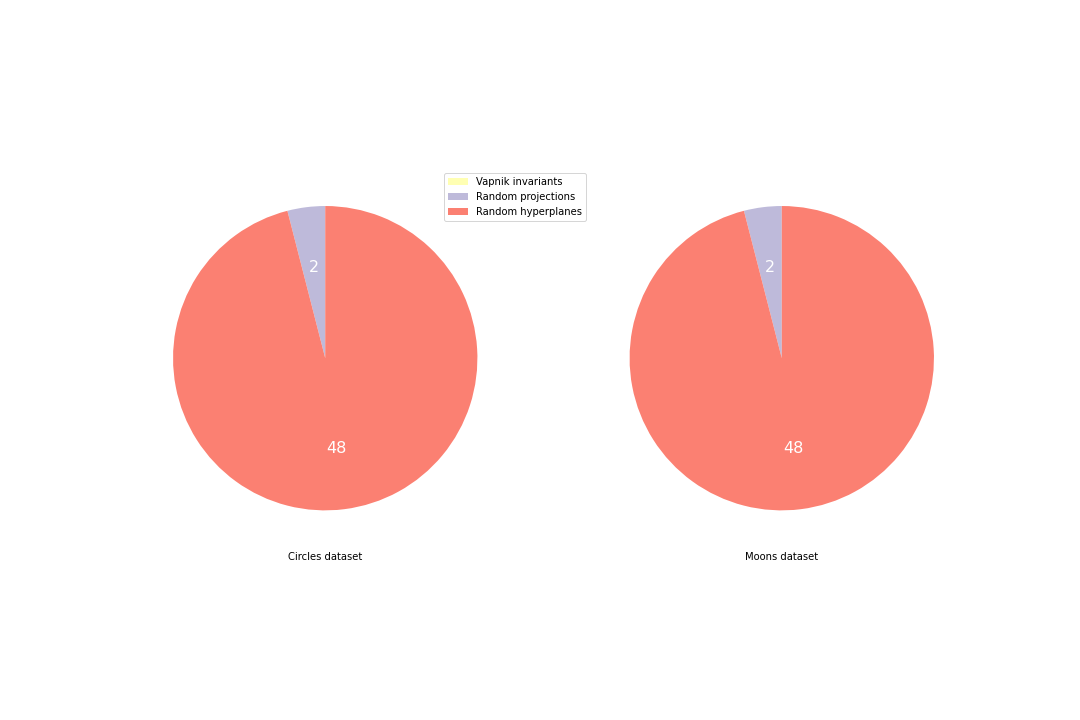
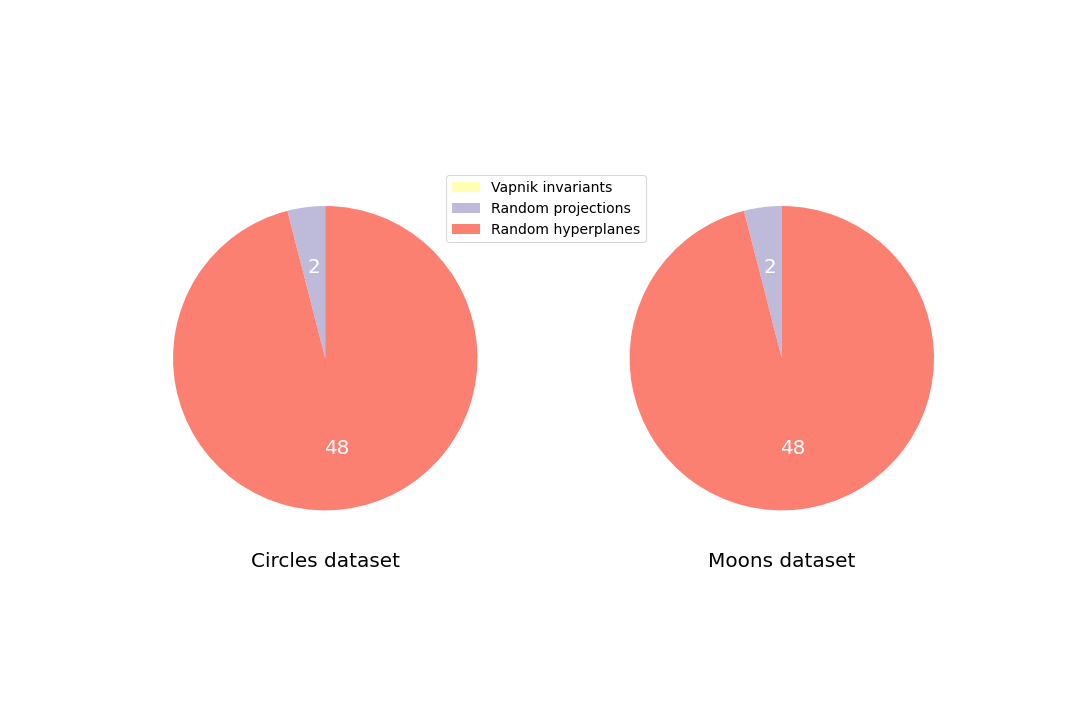
Split some images and tables and fix pie chart image

diff --git a/thesis/Chapters/Chapter4.tex b/thesis/Chapters/Chapter4.tex
@@ -244,8 +244,9 @@ model, we have restricted ourselves to performing the grid search on the followi
 
 \subsection{Results}
 
-Let us now analyze the results that we have obtained from the experimentation. Table \ref{tab:results_accuracies_errors}
-contains the mean accuracies and standard deviations for each dataset considering the different invariant types
+Let us now analyze the results that we have obtained from the experimentation. Tables
+\ref{tab:results_accuracies_errors_100} and \ref{tab:results_accuracies_errors_10}
+contain the mean accuracies and standard deviations for each dataset considering the different invariant types
 and training subsample sizes. We have only reported the mean accuracies achieved when using a subsample
 of 100\% and 10\% of the training partitions, as they represent two extremes of the learning problem: one in which
 there is a lot of available training data, and one where this data is scarce.
@@ -281,81 +282,43 @@ to keep different proportions of it, in practice it seems that preserving this k
 might not be that useful as the models may be prone to overfitting, as we saw in the experimentation with the toy
 problems.
 
+
 \begin{table}[h]
 \centering
 \resizebox{\textwidth}{!}{%
-\begin{tabular}{c|cc|cc|cc|cc|}
-\cline{2-9}
- &
-  \multicolumn{2}{c|}{\textbf{Baseline model}} &
-  \multicolumn{2}{c|}{\textbf{Vapnik invariants}} &
-  \multicolumn{2}{c|}{\textbf{Random projections}} &
-  \multicolumn{2}{c|}{\textbf{Random hyperplanes}} \\ \hline
-\multicolumn{1}{|c|}{\textbf{Dataset}} &
-  \multicolumn{1}{c|}{100\%} &
-  10\% &
-  \multicolumn{1}{c|}{100\%} &
-  10\% &
-  \multicolumn{1}{c|}{100\%} &
-  10\% &
-  \multicolumn{1}{c|}{100\%} &
-  10\% \\ \hline
-\multicolumn{1}{|c|}{Balance Scale} &
-  \multicolumn{1}{c|}{$91.47 \pm 0.38\%$} &
-  $88.80 \pm 1.73\%$ &
-  \multicolumn{1}{c|}{$91.47 \pm 0.38\%$} &
-  $87.73 \pm 2.10\%$ &
-  \multicolumn{1}{c|}{$91.73 \pm 0.38\%$} &
-  $83.73 \pm 7.17\%$ &
-  \multicolumn{1}{c|}{$90.13 \pm 1.51\%$} &
-  $76.00 \pm 12.77\%$ \\ \hline
-\multicolumn{1}{|c|}{Ecoli} &
-  \multicolumn{1}{c|}{$85.29 \pm 2.08\%$} &
-  $71.57 \pm 1.39\%$ &
-  \multicolumn{1}{c|}{$85.29 \pm 1.20\%$} &
-  $72.55 \pm 4.22\%$ &
-  \multicolumn{1}{c|}{$84.15 \pm 2.05\%$} &
-  $67.32 \pm 4.03\%$ &
-  \multicolumn{1}{c|}{$75.98 \pm 6.28\%$} &
-  $63.89 \pm 9.61\%$ \\ \hline
-\multicolumn{1}{|c|}{Glass} &
-  \multicolumn{1}{c|}{$72.87 \pm 7.91\%$} &
-  $56.59 \pm 4.78\%$ &
-  \multicolumn{1}{c|}{$72.87 \pm 7.91\%$} &
-  $45.74 \pm 6.67\%$ &
-  \multicolumn{1}{c|}{$72.09 \pm 7.44\%$} &
-  $52.45 \pm 7.03\%$ &
-  \multicolumn{1}{c|}{$71.06 \pm 7.60\%$} &
-  $45.48 \pm 9.50\%$ \\ \hline
-\multicolumn{1}{|c|}{Iris} &
-  \multicolumn{1}{c|}{$96.67 \pm 0.00\%$} &
-  $93.33 \pm 2.72\%$ &
-  \multicolumn{1}{c|}{$95.56 \pm 1.57\%$} &
-  $90.00 \pm 4.71\%$ &
-  \multicolumn{1}{c|}{$95.19 \pm 1.66\%$} &
-  $77.78 \pm 22.93\%$ &
-  \multicolumn{1}{c|}{$88.52 \pm 11.56\%$} &
-  $84.81 \pm 9.04\%$ \\ \hline
-\multicolumn{1}{|c|}{Yeast} &
-  \multicolumn{1}{c|}{$53.76 \pm 1.04\%$} &
-  $47.92 \pm 2.08\%$ &
-  \multicolumn{1}{c|}{$53.87 \pm 1.20\%$} &
-  $47.92 \pm 2.14\%$ &
-  \multicolumn{1}{c|}{$52.53 \pm 5.44\%$} &
-  $45.68 \pm 4.60\%$ &
-  \multicolumn{1}{c|}{$50.39 \pm 5.33\%$} &
-  $37.82 \pm 7.92\%$ \\ \hline
+\begin{tabular}{lcccc}
+\textbf{Dataset} & \textbf{Baseline model} & \textbf{Vapnik invariants} & \textbf{Random projections} & \textbf{Random hyperplanes} \\ \hline
+Balance Scale & $91.47 \pm 0.38\%$ & $91.47 \pm 0.38\%$ & $91.73 \pm 0.38\%$ & $90.13 \pm 1.51\%$  \\
+Ecoli         & $85.29 \pm 2.08\%$ & $85.29 \pm 1.20\%$ & $84.15 \pm 2.05\%$ & $75.98 \pm 6.28\%$  \\
+Glass         & $72.87 \pm 7.91\%$ & $72.87 \pm 7.91\%$ & $72.09 \pm 7.44\%$ & $71.06 \pm 7.60\%$  \\
+Iris          & $96.67 \pm 0.00\%$ & $95.56 \pm 1.57\%$ & $95.19 \pm 1.66\%$ & $88.52 \pm 11.56\%$ \\
+Yeast         & $53.76 \pm 1.04\%$ & $53.87 \pm 1.20\%$ & $52.53 \pm 5.44\%$ & $50.39 \pm 5.33\%$ 
 \end{tabular}%
 }
-\caption{Mean accuracy and standard deviation for each type of invariant in each problem considering
-the results for subsamples of 100\% and 10\% of the training data. The results are expressed as percentages.}
-\label{tab:results_accuracies_errors}
+\caption{Mean accuracy and standard deviation for each type of invariant in each problem considering the results for subsamples of 100\% of the training data. The results are expressed as percentages.}
+\label{tab:results_accuracies_errors_100}
+\end{table}
+
+\begin{table}[h]
+\centering
+\resizebox{\textwidth}{!}{%
+\begin{tabular}{lcccc}
+\textbf{Dataset} & \textbf{Baseline model} & \textbf{Vapnik invariants} & \textbf{Random projections} & \textbf{Random hyperplanes} \\ \hline
+Balance Scale & $88.80 \pm 1.73\%$ & $87.73 \pm 2.10\%$ & $83.73 \pm 7.17\%$  & $76.00 \pm 12.77\%$ \\
+Ecoli         & $71.57 \pm 1.39\%$ & $72.55 \pm 4.22\%$ & $67.32 \pm 4.03\%$  & $63.89 \pm 9.61\%$  \\
+Glass         & $56.59 \pm 4.78\%$ & $45.74 \pm 6.67\%$ & $52.45 \pm 7.03\%$  & $45.48 \pm 9.50\%$  \\
+Iris          & $93.33 \pm 2.72\%$ & $90.00 \pm 4.71\%$ & $77.78 \pm 22.93\%$ & $84.81 \pm 9.04\%$  \\
+Yeast         & $47.92 \pm 2.08\%$ & $47.92 \pm 2.14\%$ & $45.68 \pm 4.60\%$  & $37.82 \pm 7.92\%$ 
+\end{tabular}%
+}
+\caption{Mean accuracy and standard deviation for each type of invariant in each problem considering the results for subsamples of 10\% of the training data. The results are expressed as percentages.}
+\label{tab:results_accuracies_errors_10}
 \end{table}
 
 We can delve into the previous results by comparing how many times each model obtains a better, worse
 or the same accuracy as the rest of the models for the same experiment. This information has been
-condensed in figure \ref{fig:invariants_performance}, where we can see the performance of the
-different models across all experiments.
+condensed in figures \ref{fig:invariants_performance_1} and \ref{fig:invariants_performance_2}, where we
+can see the performance of the different models across all experiments.
 
 As we can observe, the model with no invariants is capable of achieving more times greater accuracies than
 the rest of the models irregardless of the training size. When compared to the model that uses Vapnik's invariants,
@@ -383,11 +346,22 @@ of invariant by far.
 
 \begin{figure}[ht]
     \centering
-    \includegraphics[width=0.7\textwidth]{thesis/Figures/invariants_performance.png}
-    \caption{Waffle charts showing the number of times that each model achieves a better, worse or the same
-    accuracy when compared to the accuracy achieved by another model in the same experiment, aggregated
-    across all datasets. Left column shows the results obtained when the training size is disregarded.
+    \includegraphics[width=\textwidth]{thesis/Figures/invariants_performance_1.png}
+    \caption{Number of times that the baseline model achieves a better, worse or the same
+    accuracy when compared to the rest of the models in the same experiment,
+    aggregated across all datasets. Left column shows the results obtained when the training size is disregarded.
     The right one shows the results only when considering the experiments where 10\% of the training partition
     is used.}
-    \label{fig:invariants_performance}
+    \label{fig:invariants_performance_1}
+\end{figure}
+
+\begin{figure}[ht]
+    \centering
+    \includegraphics[width=\textwidth]{thesis/Figures/invariants_performance_2.png}
+    \caption{Number of times that the models using Vapnik's invariants, random projections and
+    random hyperplanes achieve a better, worse or the same accuracy when compared one to another
+    in the same experiment, aggregated across all datasets. Left column shows the results obtained when
+    the training size is disregarded. The right one shows the results only when considering the experiments
+    where 10\% of the training partition is used.}
+    \label{fig:invariants_performance_2}
 \end{figure}

diff --git a/thesis/Chapters/Chapter2.tex b/thesis/Chapters/Chapter2.tex
@@ -135,7 +135,7 @@ are labeled as 1 and the negative ones as 0. The zeroth order invariant would gi
 about the ratio of elements of the positive class. It is defined as follows:
 
 \[
-    \psi_0(x) = 1
+    \psi_{z.o.}(x) = 1
 \]
 
 The logic behind it is the following: the predicate is applied to each single sample in the dataset,
@@ -152,7 +152,7 @@ Suppose the same case scenario as in the previous subsection. If we apply the fi
 a dataset, we would get the mean or centroid of the positive class. Its mathematical expression is:
 
 \[
-    \psi_1(x) = x
+    \psi_{f.o.}(x) = x
 \]
 
 Same as before, when this predicate is applied to the dataset it will generate the vector

diff --git a/thesis/main.tex b/thesis/main.tex
@@ -50,6 +50,7 @@ headsepline, % Uncomment to get a line under the header
 \usepackage{tablefootnote}
 \usepackage{algorithm}
 \usepackage{algpseudocode}
+\usepackage{subcaption}
 
 \DeclareMathOperator*{\argmin}{\arg\!\min}
 %----------------------------------------------------------------------------------------
